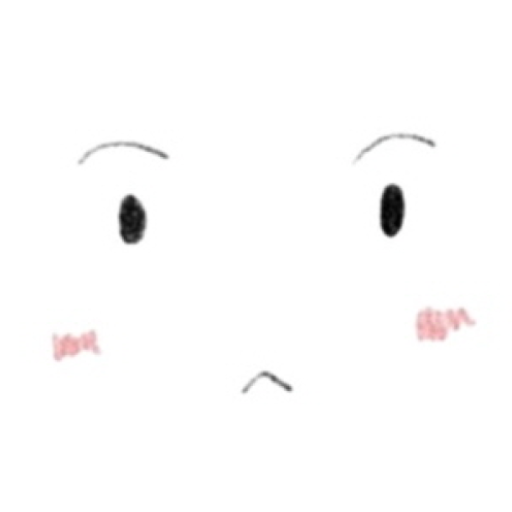
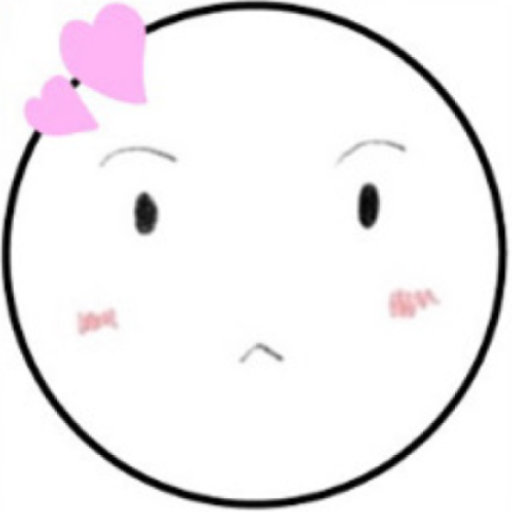
FEAT: 챗봇 첫 메시지 전송 기능 추가
- 챗봇 첫 메시지 추가
- 챗봇 첫 메시지 함수 chatbotSays() 추가
- 기존 로고 변경

diff --git a/app/src/main/java/com/example/suicide_prevention_app/MainActivity.java b/app/src/main/java/com/example/suicide_prevention_app/MainActivity.java
@@ -148,6 +148,21 @@ public class MainActivity extends AppCompatActivity {
         // 배경음 인텐트 호출
         startService(musicIntent);
 
+        // 챗봇 첫 메시지
+        chatbotSays("안녕하세요! 사용자님을 도와드릴 \n" +
+                "AI 챗봇 그리미입니다.\n" +
+                "아래처럼 입력하시면 도움을 받으실 수 있습니다.\n" +
+                "예: 호흡이 힘들어\n" +
+                "   지금 내가 뭘하면 좋을까? \n" +
+                "   재밌는 사진 보여줘\n" +
+                "   기타 증상입력");
+    }
+
+    /* 챗봇이 처음 말할때 쓰는 함수 */
+    private void chatbotSays(String message) {
+        messageList.add(new Message(message, false));
+        chatAdapter.notifyItemInserted(messageList.size() - 1);
+        recyclerView.smoothScrollToPosition(messageList.size() - 1);
     }
 
     /* 버튼 클릭했을때 확대 축소되는 애니메이션 (통화 버튼, 음악 버튼) */
